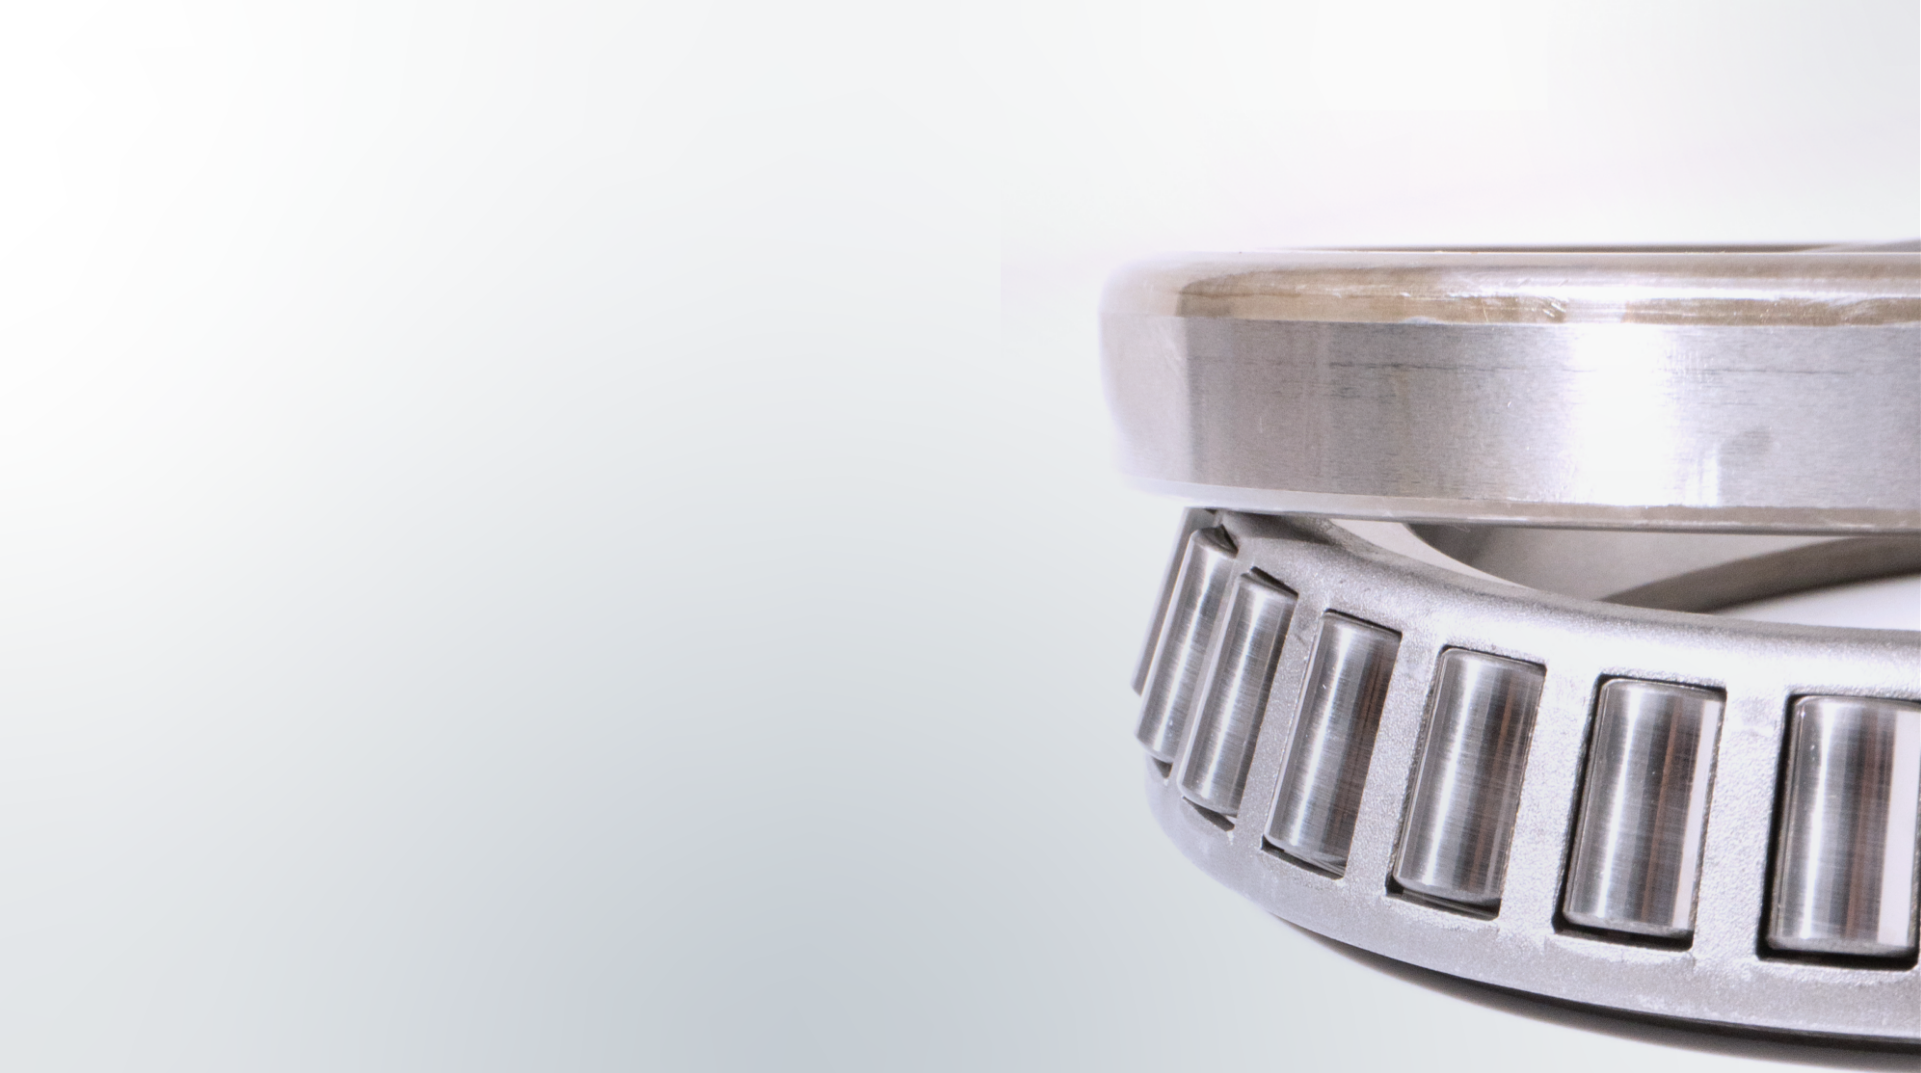
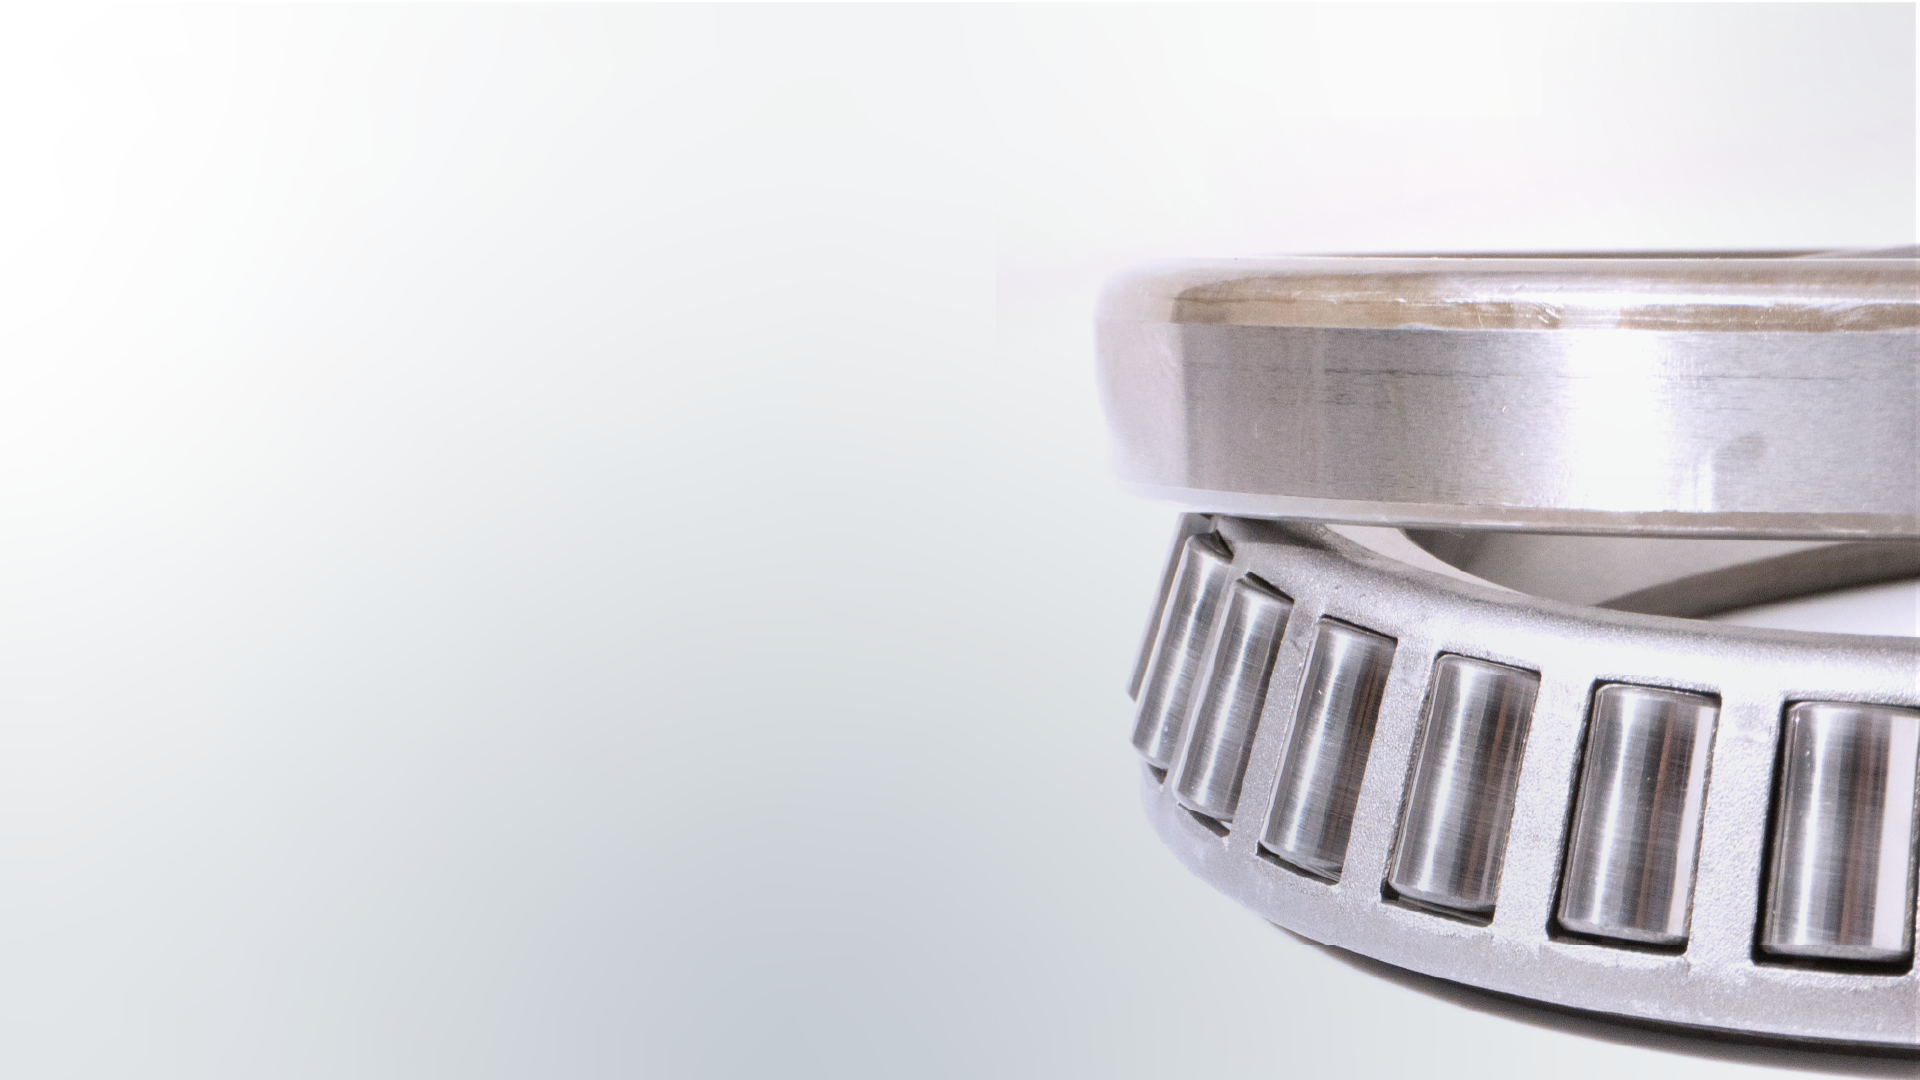
upd

diff --git a/components/Home/Hero1.vue b/components/Home/Hero1.vue
@@ -1,24 +1,26 @@
 <template>
   <div
-    class="flex flex-col bg-[url('img/Hero/Hero1.png')] bg-cover bg-no-repeat"
+    class="flex flex-col bg-[url('img/Hero/Hero1.png')] bg-cover bg-no-repeat bg-[center_right_45%] lg:bg-center"
   >
     <div
-      class="max-w-[1440px] px-9 w-full justify-center h-full self-center flex flex-col text-primary text-start gap-7 lg:gap-10"
+      class="max-w-[1440px] px-9 w-full justify-center h-full backdrop-blur-sm lg:backdrop-blur-0 self-center flex flex-col text-primary text-start gap-12 lg:gap-10"
     >
-      <div class="flex flex-col text-3xl lg:text-7xl font-extrabold">
-        <p>Importamos directo</p>
-        <p class="text-6xl lg:text-7xl">de fábrica</p>
+      <div class="flex flex-col lg:gap-7">
+        <div class="flex flex-col text-3xl lg:text-7xl font-extrabold">
+          <p>Importamos directo</p>
+          <p class="text-6xl lg:text-7xl">de fábrica</p>
+        </div>
+        <span class="hidden lg:flex flex-col font-semibold text-lg lg:text-base"
+          >Somos distribuidores mayoristas de rodamientos,
+
+          <p>autopartes y agropartes.</p>
+        </span>
+        <span class="flex lg:hidden font-semibold text-lg lg:text-base"
+          >Somos distribuidores mayoristas de rodamientos, autopartes y
+          agropartes.
+        </span>
       </div>
-      <span class="hidden lg:flex flex-col font-semibold text-lg lg:text-base"
-        >Somos distribuidores mayoristas de rodamientos,
 
-        <p>autopartes y agropartes.</p>
-      </span>
-      <span class="flex lg:hidden font-semibold text-lg lg:text-base"
-        >Somos distribuidores mayoristas de rodamientos,
-
-        autopartes y agropartes.
-      </span>
       <div class="flex flex-col lg:flex-row gap-3 lg:gap-8">
         <VButton
           titulo="Linea de productos"

diff --git a/components/Home/Hero.vue b/components/Home/Hero.vue
@@ -1,39 +1,15 @@
 <template>
   <div ref="glideRef2" class="glide">
-    <!-- <div
-        style="
-          background: rgb(255, 255, 255);
-          background: linear-gradient(
-            270deg,
-            rgba(255, 255, 255, 1) 0%,
-            rgba(255, 255, 255, 1) 47%,
-            rgba(255, 255, 255, 0) 100%
-          );
-        "
-        class="absolute w-40 h-full right-0 z-10"
-      ></div>
-      <div
-        style="
-          background: rgb(255, 255, 255);
-          background: linear-gradient(
-            90deg,
-            rgba(255, 255, 255, 1) 0%,
-            rgba(255, 255, 255, 1) 47%,
-            rgba(255, 255, 255, 0) 100%
-          );
-        "
-        class="absolute w-40 h-full left-0-0 z-10"
-      ></div> -->
     <div class="glide__track" data-glide-el="track">
       <ul class="glide__slides">
         <li class="glide__slide">
-          <HomeHero1 class="h-[60vh] lg:h-[90vh]"></HomeHero1>
+          <HomeHero1 class="h-[90vh] lg:h-[90vh]"></HomeHero1>
         </li>
         <li class="glide__slide">
-          <HomeHero2 class="h-[60vh] lg:h-[90vh]"></HomeHero2>
+          <HomeHero2 class="h-[90vh] lg:h-[90vh]"></HomeHero2>
         </li>
         <li class="glide__slide">
-          <HomeHero3 class="h-[60vh] lg:h-[90vh]"></HomeHero3>
+          <HomeHero3 class="h-[90vh] lg:h-[90vh]"></HomeHero3>
         </li>
       </ul>
     </div>

diff --git a/components/Home/Hero2.vue b/components/Home/Hero2.vue
@@ -1,9 +1,9 @@
 <template>
   <div
-    class="flex flex-col bg-[url('img/Hero/Hero2.png')] bg-cover bg-no-repeat justify-end"
+    class="flex flex-col bg-[url('img/Hero/Hero2.png')] bg-cover bg-no-repeat justify-end bg-[center_right_60%] lg:bg-center"
   >
     <div
-      class="max-w-[1440px] px-9 w-full justify-center h-1/2 self-center flex flex-col text-primary text-start gap-7 lg:gap-10 pb-40"
+      class="max-w-[1440px] px-9 w-full justify-end lg:justify-center backdrop-blur-sm lg:backdrop-blur-0 h-full lg:h-1/2 self-center flex flex-col text-primary text-start gap-7 lg:gap-10 pb-28 lg:backdrop-brightness-100"
     >
       <div class="flex flex-col text-4xl lg:text-7xl font-extrabold">
         <p>Compromiso y</p>

diff --git a/components/Home/Hero3.vue b/components/Home/Hero3.vue
@@ -1,9 +1,9 @@
 <template>
   <div
-    class="flex flex-col bg-[url('img/Hero/Hero3.png')] bg-cover bg-no-repeat"
+    class="flex flex-col bg-[url('img/Hero/Hero3.png')] bg-cover bg-no-repeat bg-[center_right_60%] lg:bg-center"
   >
     <div
-      class="max-w-[1440px] px-9 w-full justify-center h-full self-center flex flex-col text-primary text-start gap-10"
+      class="max-w-[1440px] px-9 w-full justify-around lg:justify-center h-full self-center flex flex-col text-primary text-start gap-10"
     >
       <div class="flex flex-col text-5xl font-extrabold">
         <p>Una empresa familiar que</p>
